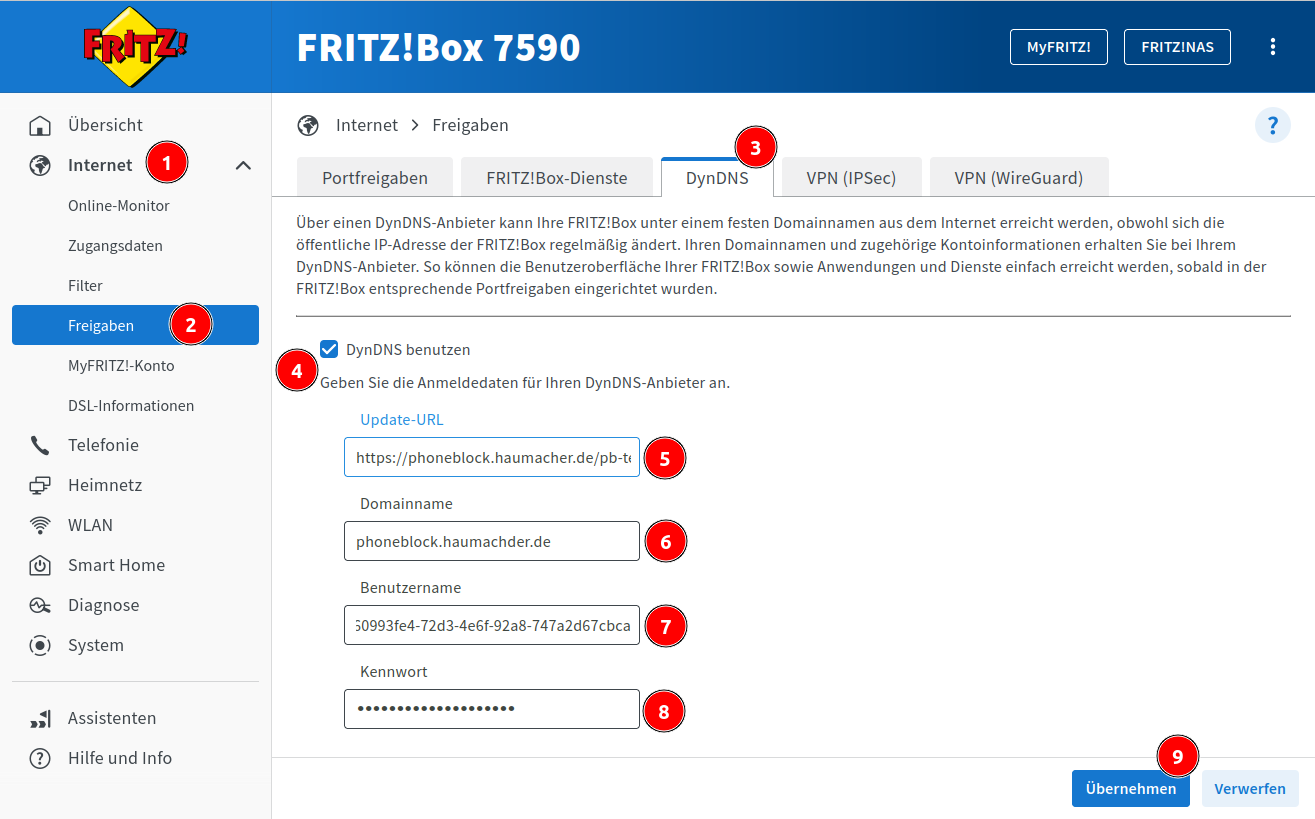
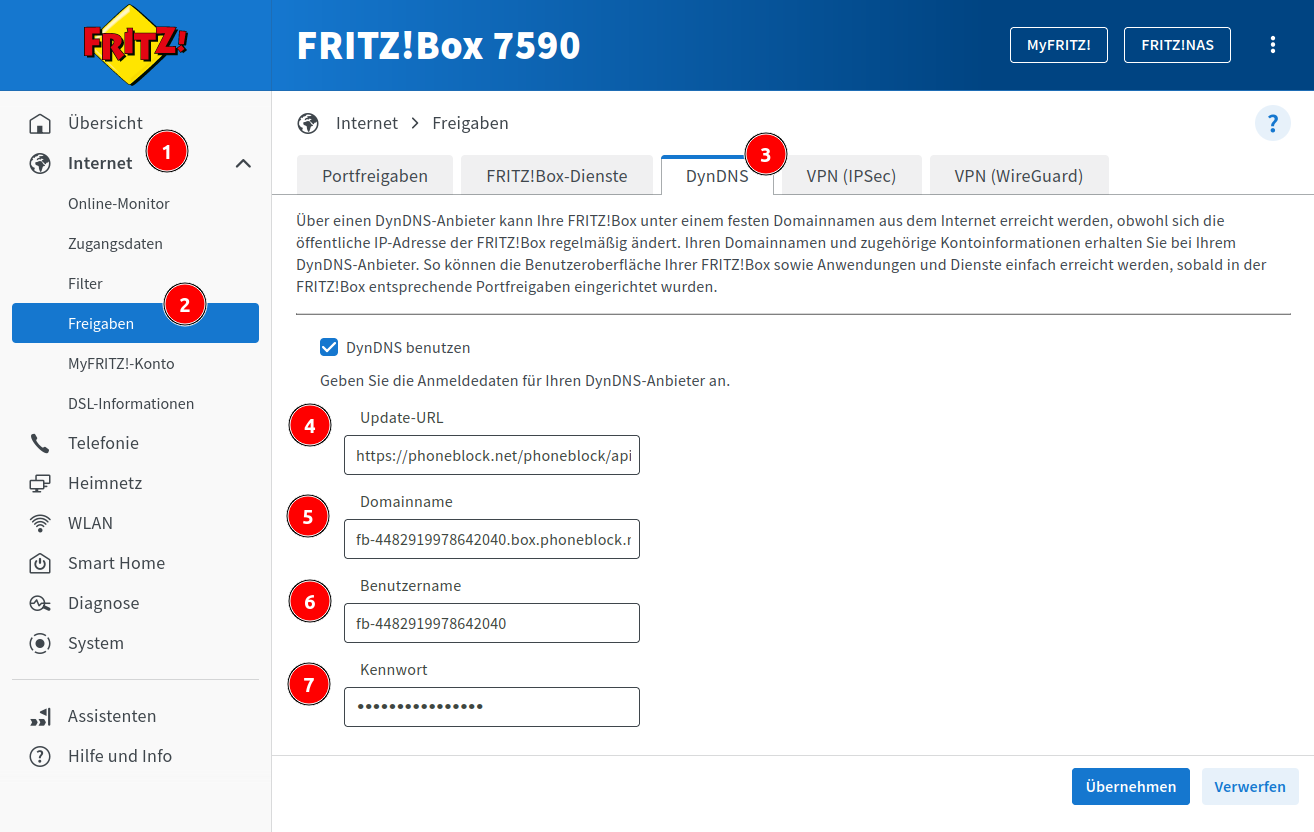
Added help pictures for DynDNS setup.

diff --git a/phoneblock_answerbot_ui/lib/BotSetupForm.dart b/phoneblock_answerbot_ui/lib/BotSetupForm.dart
@@ -142,7 +142,9 @@ class BotSetupState extends State<BotSetupForm> {
                 hintText("Gib den Domain-Namen Deiner Fritz!Box an. Wenn Deine Fritz!Box noch keinen Domain-Namen hat, aktiviere PhoneBlock-DynDNS. "
                     "Den Domain-Namen Deiner Deiner Fritz!Box findest Du unter (Unter Internet > Freigaben > DynDNS). "
                     "Alternativ kannst Du auch die MyFRITZ!-Adresse angeben (Internet > MyFRITZ!-Konto), "
-                    "z.B. z4z...l4n.myfritz.net."),
+                    "z.B. z4z...l4n.myfritz.net.",
+                  helpUrl: "setup-ab/help/01-existing-dyndns.png"
+                ),
                 Padding(
                   padding: const EdgeInsets.symmetric(vertical: 8),
                   child: ElevatedButton(
@@ -189,7 +191,9 @@ class BotSetupState extends State<BotSetupForm> {
           child: ListView(
               children: <Widget>[
                 hintText("Öffne in Deinen Fritz!Box-Einstellungen die Seite die "
-                    "Internet > Freigaben > DynDNS und trage die hier angegebenen Informationen ein."),
+                    "Internet > Freigaben > DynDNS und trage die hier angegebenen Informationen ein.",
+                    helpUrl: "setup-ab/help/02-configure-dyndns.png"
+                ),
 
                 const InfoField('Update-URL',
                     "https://phoneblock.net/phoneblock/api/dynip?user=<username>&passwd=<passwd>&ip4=<ipaddr>&ip6=<ip6addr>",
